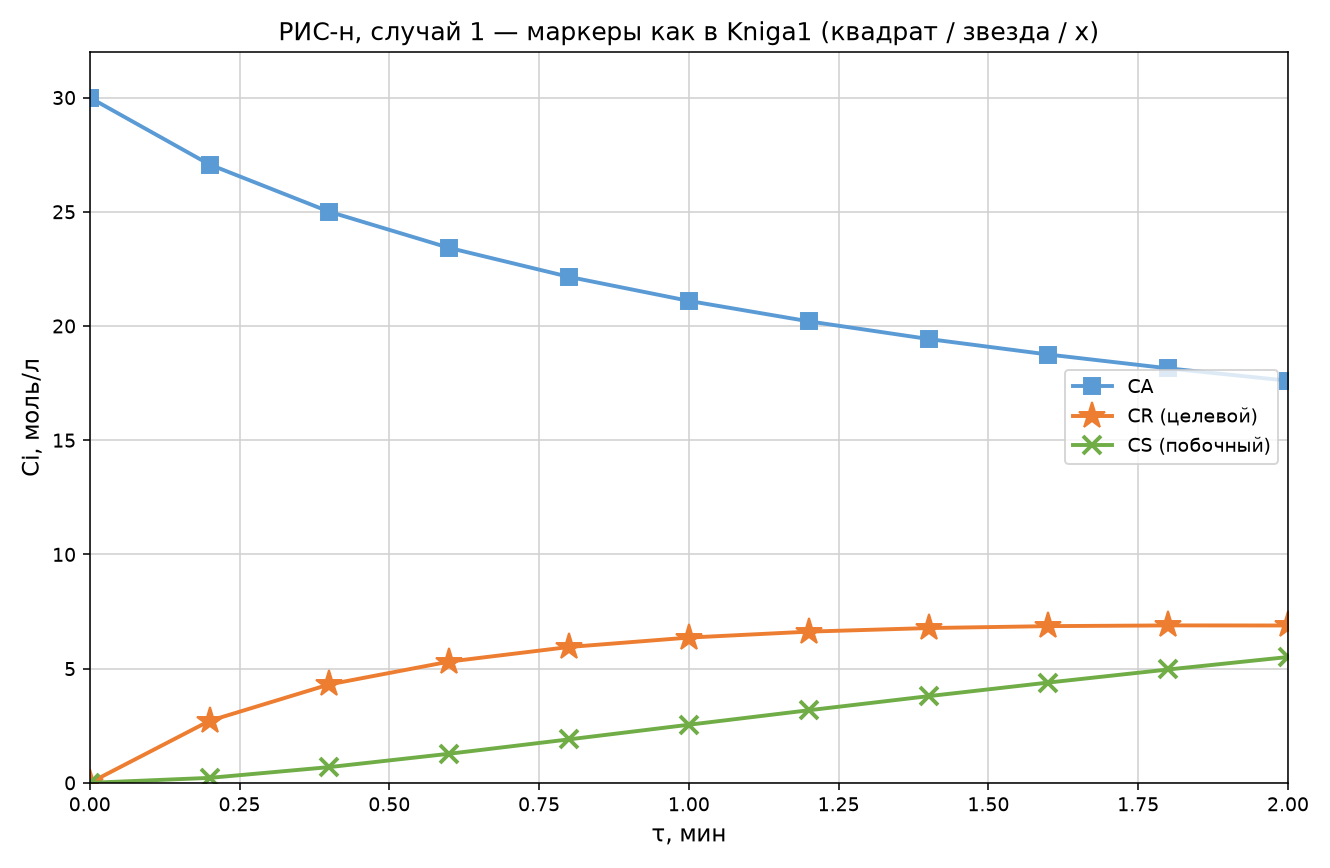
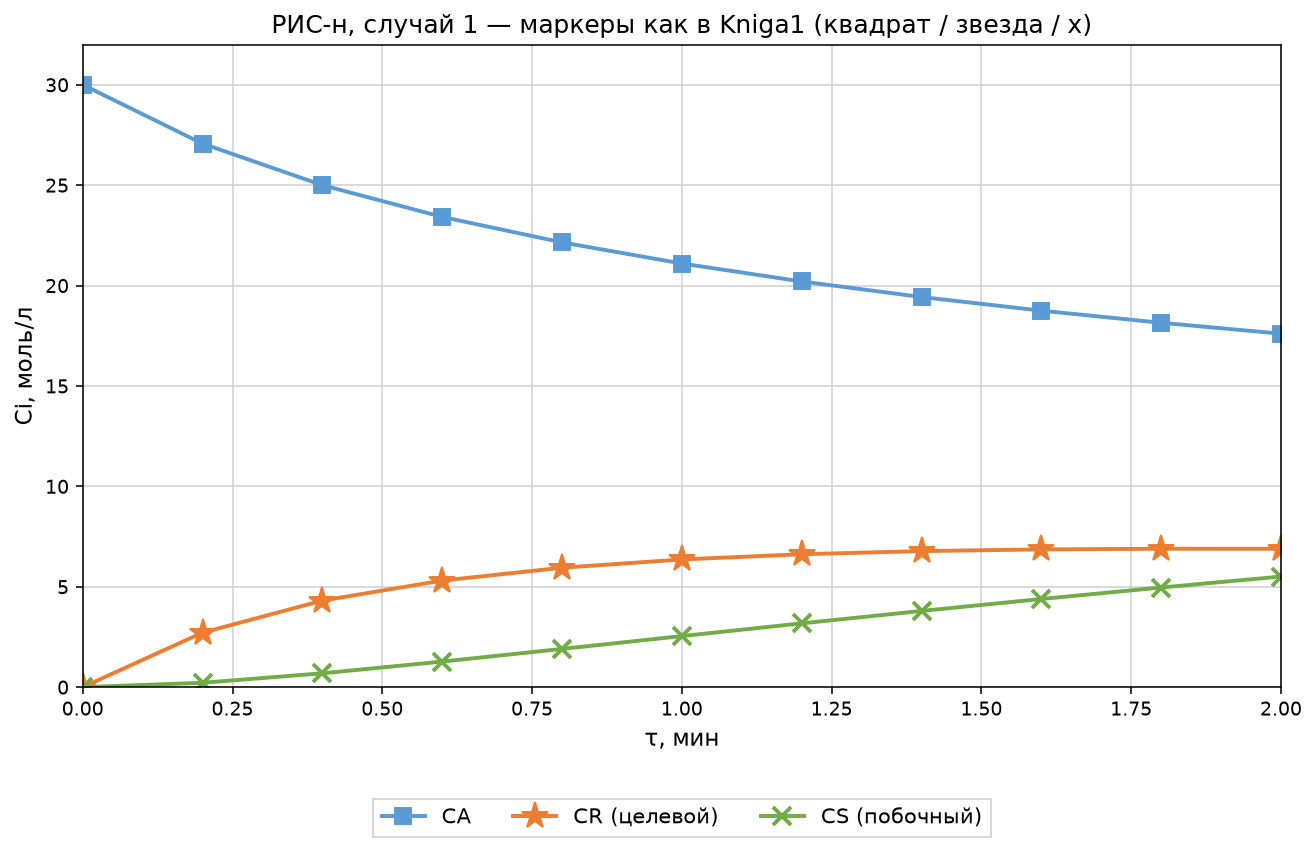
Легенду графиков Ci(τ) вынести вниз, чтобы не перекрывала кривые

diff --git a/build_reaktory_grafik.py b/build_reaktory_grafik.py
@@ -242,9 +242,20 @@ def make_scatter(ws, title, x_col, y_cols, start_row, n_pts, anchor, y_max=32.0)
     chart.x_axis.axId = 1
     chart.y_axis.axId = 2
     chart.legend = Legend()
-    chart.legend.position = "r"
-    chart.width = 18
-    chart.height = 10
+    chart.legend.position = "b"
+    chart.legend.overlay = False
+    # поле точек чуть выше нижней легенды
+    chart.plot_area.layout = Layout(
+        manualLayout=ManualLayout(
+            layoutTarget="inner",
+            xMode="edge",
+            yMode="edge",
+            x=0.10,
+            y=0.04,
+            w=0.84,
+            h=0.78,
+        )
+    )
 
     xvalues = Reference(ws, min_col=x_col, min_row=start_row, max_row=start_row + n_pts - 1)
     for col, ser_title, symbol, accent, size in y_cols:
@@ -257,6 +268,8 @@ def make_scatter(ws, title, x_col, y_cols, start_row, n_pts, anchor, y_max=32.0)
         chart.series.append(ser)
 
     chart.anchor = anchor
+    chart.width = 18
+    chart.height = 11
     ws.add_chart(chart)
     return chart
 
@@ -510,9 +523,18 @@ def preview_pngs():
         ax.set_xlim(0, 2)
         ax.set_ylim(0, 32)
         ax.grid(True, ls="-", color="#D0D0D0")
-        ax.legend(frameon=True, loc="center right")
+        ax.legend(
+            loc="upper center",
+            bbox_to_anchor=(0.5, -0.16),
+            ncol=3,
+            frameon=True,
+            fancybox=False,
+            borderaxespad=0.4,
+            fontsize=11,
+        )
         fig.tight_layout()
-        fig.savefig(PREVIEW_DIR / fname)
+        fig.subplots_adjust(bottom=0.20)
+        fig.savefig(PREVIEW_DIR / fname, bbox_inches="tight")
         plt.close(fig)
 
     plot_one(PFR[1], "РИВ, случай 1 — маркеры как в Kniga1 (квадрат / звезда / x)", "graf_riv_sluchaj1.png")
